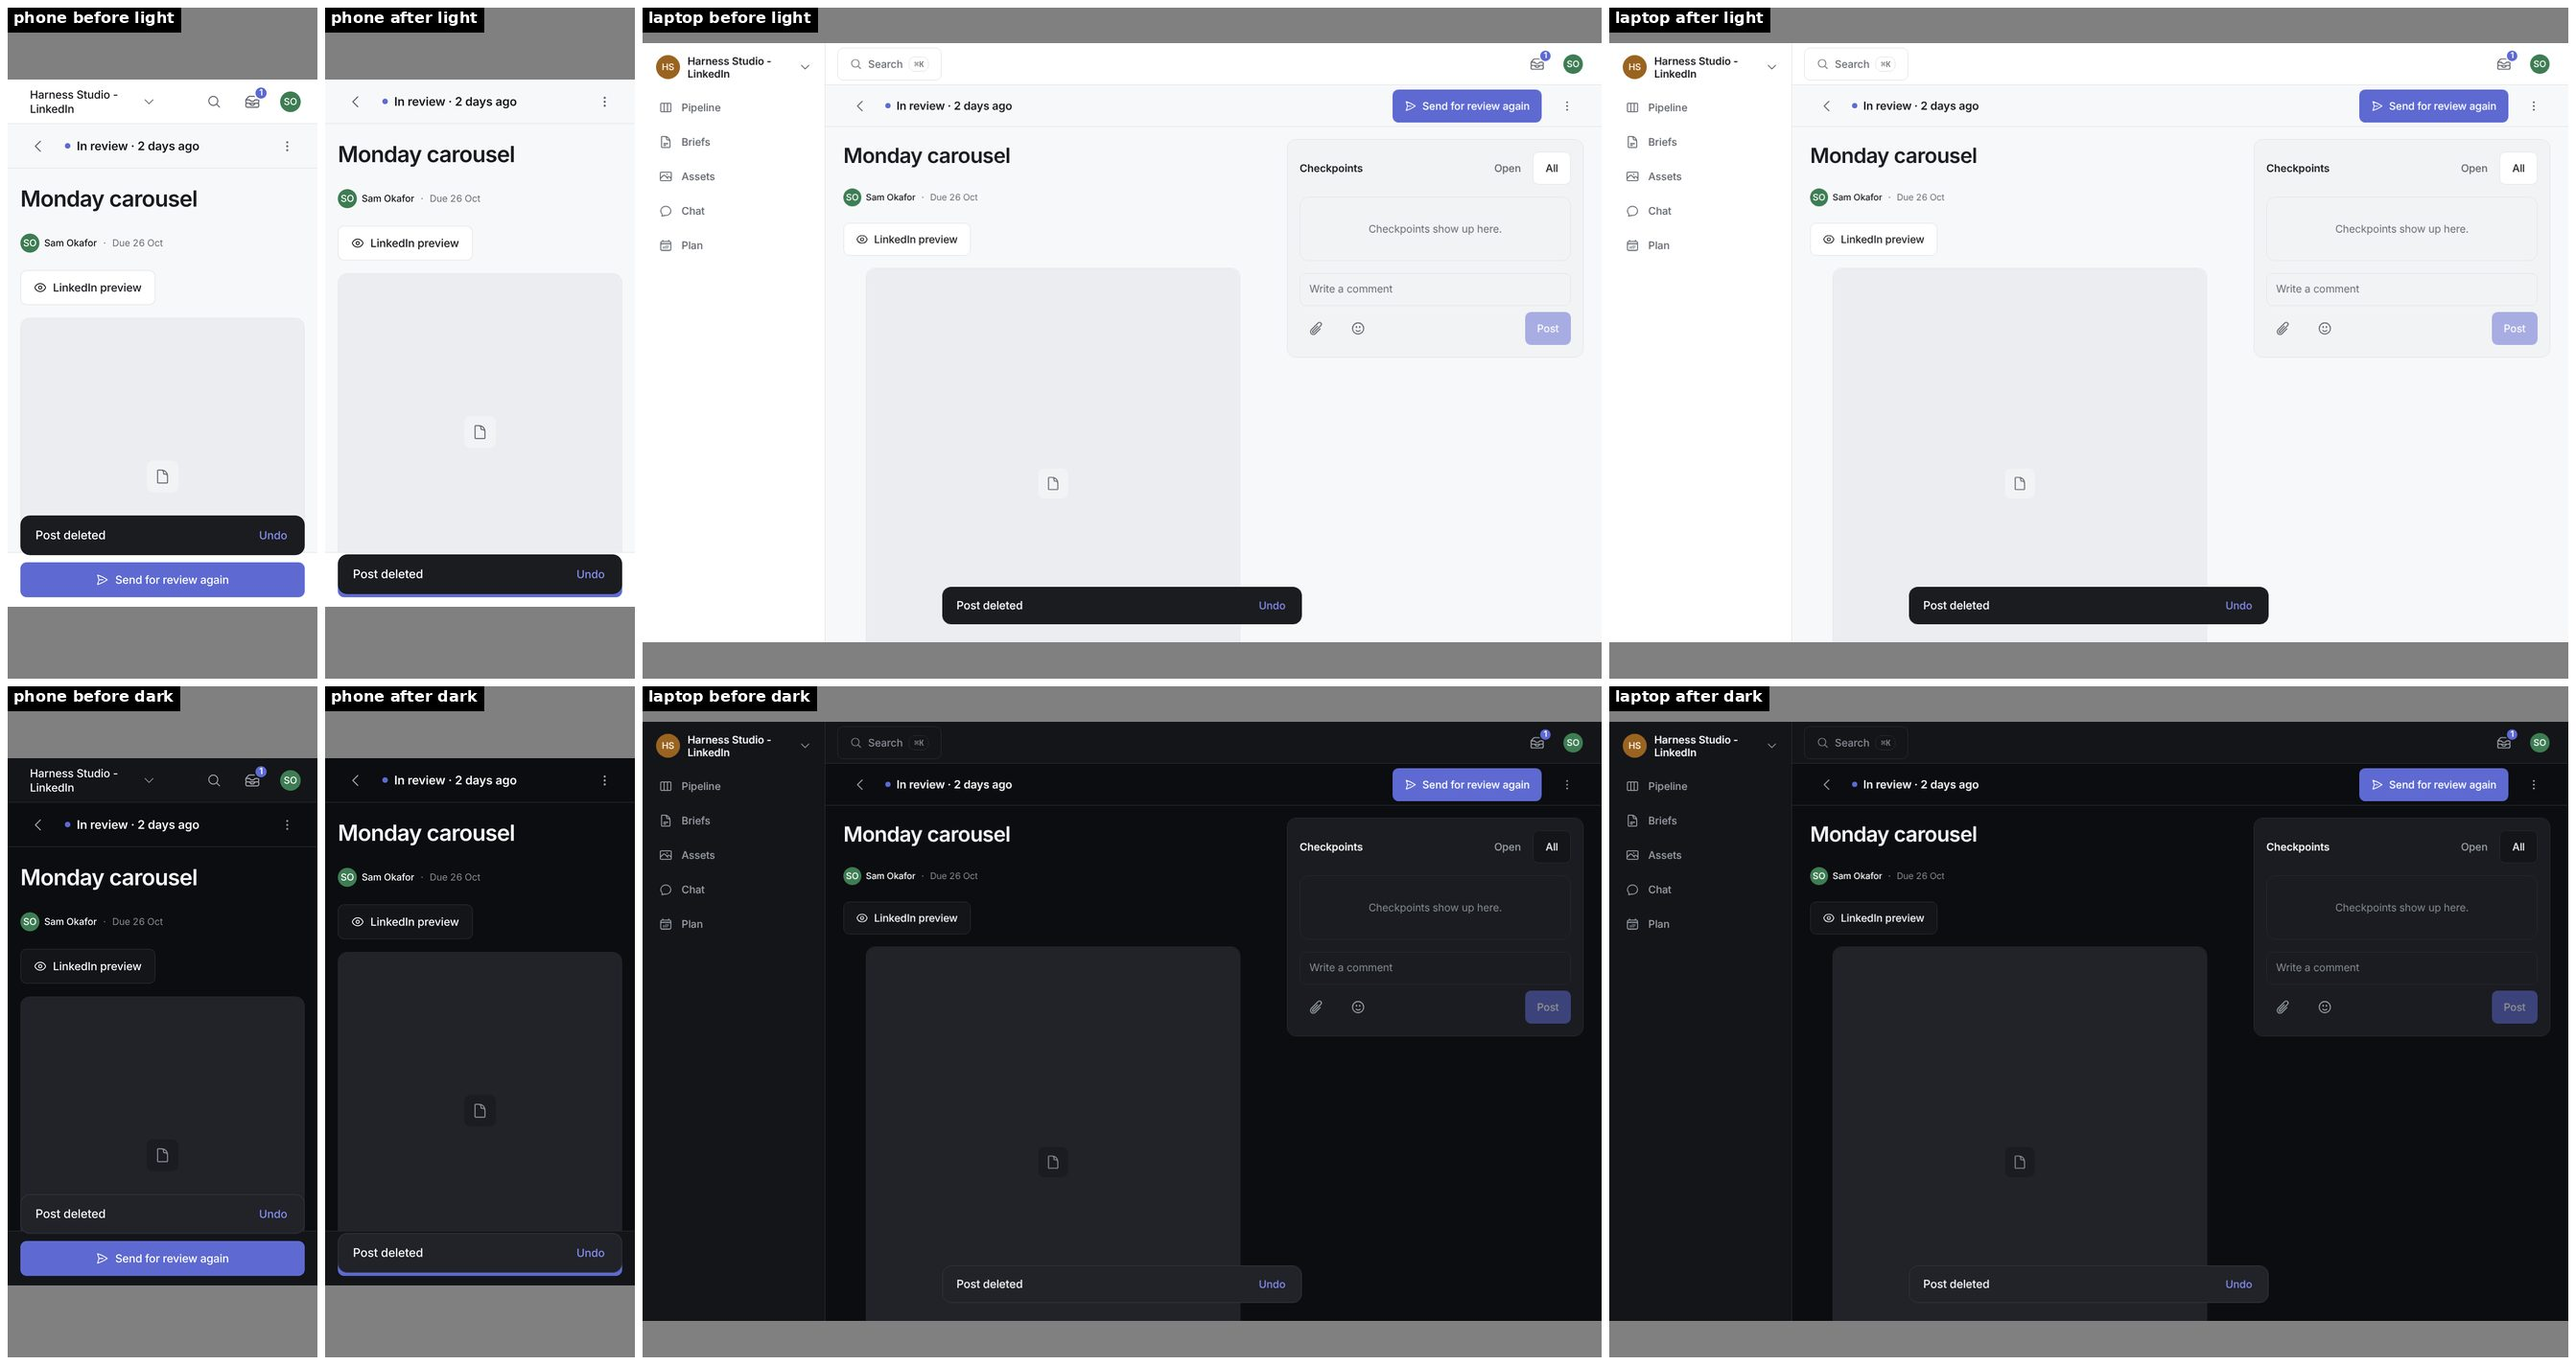
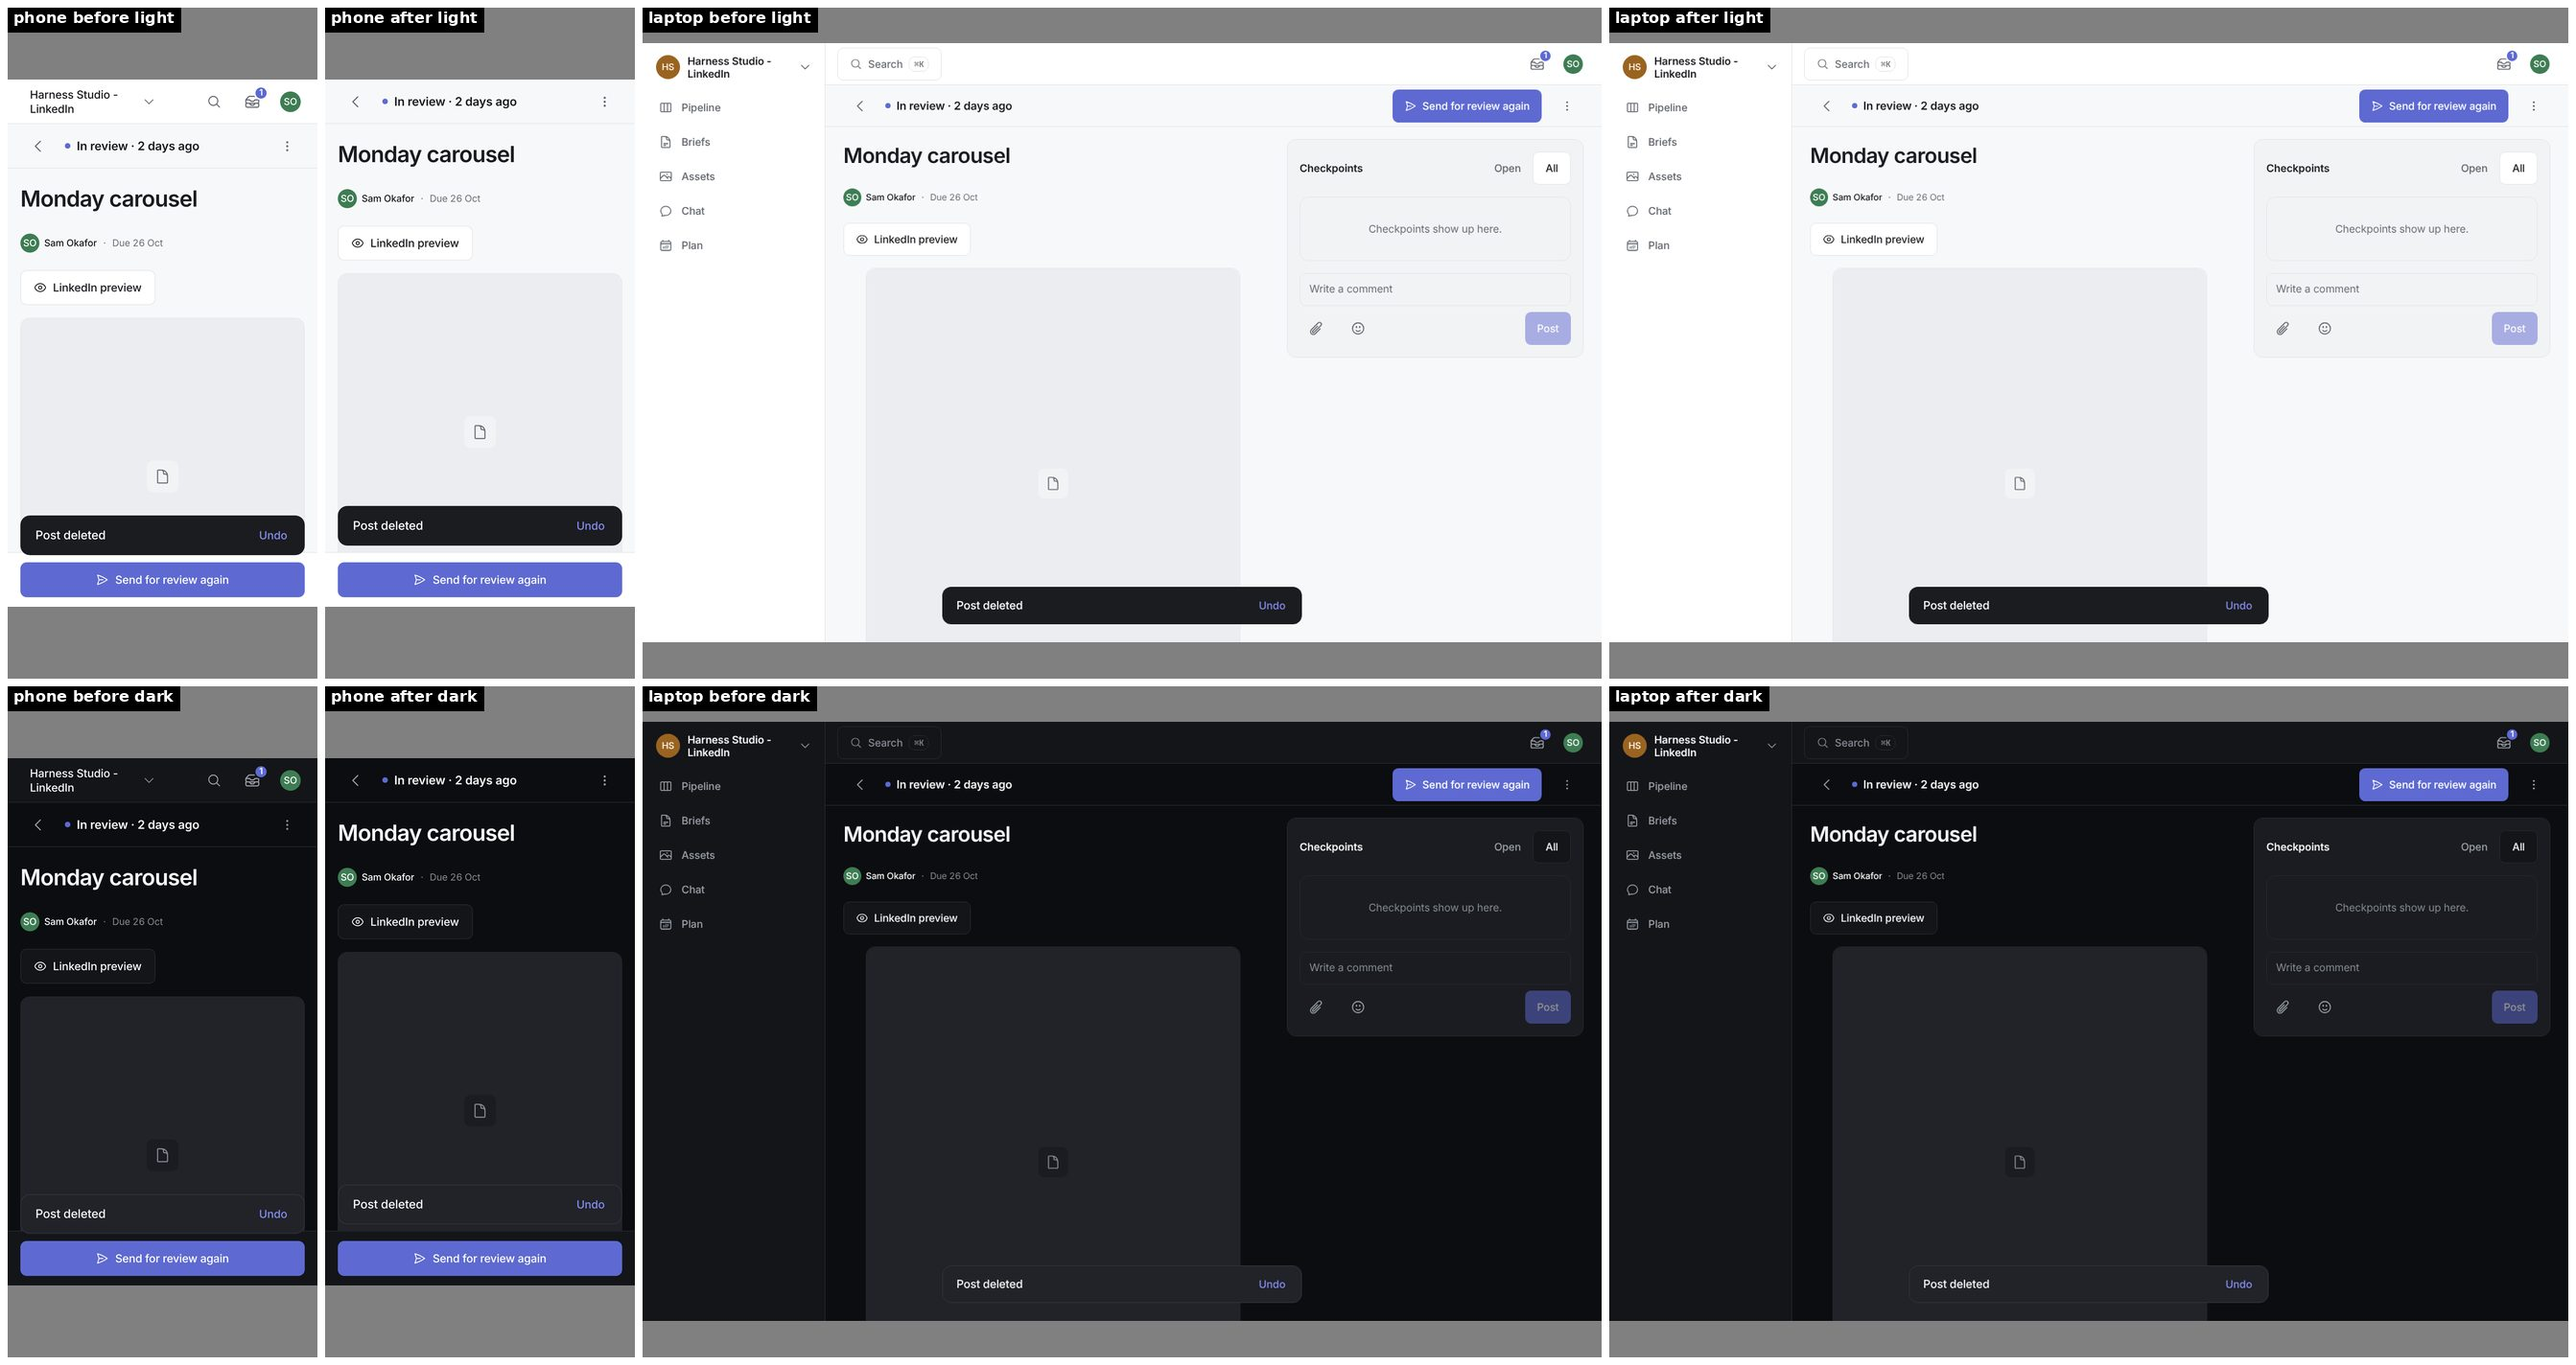
Stage dots on Pipeline chips; Undo strip floats above bottom bars; Mark all read in Activity ⋯; recapture screens
Claude-Session: https://claude.ai/code/session_01HkXRaKvQ6AtJVsedBSVVac

Changed region(s): [[0.1236, 0.8961, 0.2472, 0.9579], [0.1236, 0.3708, 0.2472, 0.4326]]

diff --git a/src/components/pages/NotificationsPage.tsx b/src/components/pages/NotificationsPage.tsx
@@ -6,6 +6,7 @@ import { EmptyState } from '@/components/ui/EmptyState';
 import { Sheet } from '@/components/ui/Sheet';
 import { PageHead } from '@/components/shell/PageHead';
 import { SortMenu, type SortOption } from '@/components/ui/SortMenu';
+import { ActionMenu } from '@/components/ui/ActionMenu';
 import {
   ICON_SIZE,
   IconActivity,
@@ -13,6 +14,7 @@ import {
   IconAt,
   IconBriefs,
   IconCalendarClock,
+  IconCheck,
   IconPlan,
 } from '@/components/ui/icons';
 import { ActivityCard, UpcomingCard } from '@/components/pages/activity/ActivityCard';
@@ -823,17 +825,26 @@ export function NotificationsPage() {
         title={ACTIVITY_TITLE}
         actions={
           <>
-            {chipUnread > 0 ? (
-              <Button variant="ghost" onClick={handleMarkAll}>
-                Mark all read
-              </Button>
-            ) : null}
             <SortMenu<ActivityDirection>
               options={SORT_OPTIONS}
               value={sort}
               onChange={setSort}
               label="Sort activity"
             />
+            {/* Mark all read lives in the ⋯ menu (list-toolbar rule); hidden with nothing unread. */}
+            {chipUnread > 0 ? (
+              <ActionMenu
+                title="Activity"
+                items={[
+                  {
+                    id: 'mark-all-read',
+                    label: 'Mark all read',
+                    icon: IconCheck,
+                    onSelect: () => void handleMarkAll(),
+                  },
+                ]}
+              />
+            ) : null}
           </>
         }
       />

diff --git a/e2e/audit/capture-pr-b.spec.ts b/e2e/audit/capture-pr-b.spec.ts
@@ -185,6 +185,20 @@ const SCREENS: Screen[] = [
   { name: 'chat-post-sheet', seed: creator, url: '/chat', steps: openChatPostSheet },
   { name: 'chat-post-sheet-approver', seed: approver, url: '/chat', steps: openChatPostSheet },
   {
+    // The sheet's lower half: Comment on this post and Talk about this post.
+    name: 'chat-post-sheet-scrolled',
+    seed: creator,
+    url: '/chat',
+    steps: async (page) => {
+      await openChatPostSheet(page);
+      const talk = page.getByText('Talk about this post').last();
+      const comment = page.getByText('Comment on this post').last();
+      const target = (await talk.count()) > 0 ? talk : comment;
+      await target.scrollIntoViewIfNeeded().catch(() => undefined);
+      await page.waitForTimeout(400);
+    },
+  },
+  {
     name: 'brief-detail',
     seed: creator,
     url: `/briefs/${AUDIT_BRIEF_ID}`,
@@ -378,6 +392,23 @@ const SCREENS: Screen[] = [
     seed: creator,
     url: '/deleted',
     steps: async (page) => waitFor(page, [page.getByText('Old logo.png')], 'recently deleted'),
+  },
+  {
+    // Nothing deleted: the zero state.
+    name: 'recently-deleted-empty',
+    seed: { ...creator, noAssets: true },
+    url: '/deleted',
+    steps: async (page) => {
+      await waitFor(
+        page,
+        [
+          page.getByText('Deleted posts and files show up here.'),
+          page.getByRole('heading', { name: 'Recently deleted' }),
+        ],
+        'recently deleted (empty)',
+      );
+      await page.waitForTimeout(2500);
+    },
   },
   {
     name: 'toast-copy-link',

diff --git a/e2e/tests/post-delete-undo.spec.ts b/e2e/tests/post-delete-undo.spec.ts
@@ -45,3 +45,31 @@ test('Post detail: Delete post shows the Undo strip, no dialog; Undo restores th
   await expect(title).toBeVisible();
   expect(network.blocked).toEqual([]);
 });
+
+test('Post detail on phone: the Undo strip sits above the decision bar, never over it', async ({
+  page,
+}) => {
+  await installHarnessNetwork(page);
+  await page.goto(`/posts/${POST}`);
+  await expect(page.getByRole('heading', { name: 'Monday carousel', level: 1 })).toBeVisible({
+    timeout: 15_000,
+  });
+  const bar = page.locator('[data-decision-bar]');
+  await expect(bar).toBeVisible();
+
+  await page.getByRole('button', { name: 'More actions', exact: true }).first().click();
+  const menu = page.getByRole('dialog', { name: 'Post actions', exact: true });
+  await menu.getByRole('menuitem').last().click();
+
+  const strip = undoStrip(page, 'Post deleted');
+  await expect(strip).toBeVisible();
+  // Let the strip finish its slide in before measuring.
+  await page.waitForTimeout(600);
+  const stripBox = await strip.boundingBox();
+  const barBox = await bar.boundingBox();
+  expect(stripBox).not.toBeNull();
+  expect(barBox).not.toBeNull();
+  // No overlap: the strip's bottom edge is at or above the bar's top edge.
+  expect(stripBox!.y + stripBox!.height).toBeLessThanOrEqual(barBox!.y);
+  await strip.getByRole('button', { name: 'Undo', exact: true }).click();
+});

diff --git a/src/components/pages/pipeline/StageChips.tsx b/src/components/pages/pipeline/StageChips.tsx
@@ -2,6 +2,7 @@ import { useEffect, useRef, useState } from 'react';
 import type { ReactElement } from 'react';
 import { Chip } from '@/components/ui/Chip';
 import type { Stage } from '@srtdio/posts';
+import { StageDot } from '@/components/pages/pipeline/stage-meta';
 
 export interface StageChipItem {
   /** The chip's filter key: a Stage, or the UI-only 'all'. */
@@ -34,7 +35,7 @@ export function chipRowMask(fadeStart: boolean, fadeEnd: boolean): string {
 
 /**
  * The Pipeline stage switcher: one horizontally scrollable, non-wrapping row of
- * the shared ui/Chip (the stages plus the UI-only All), the same chip and
+ * the shared ui/Chip (the stages, each with its stage dot, plus the UI-only All), the same chip and
  * selected style as Briefs, Activity and Help. A chip shows its count only when
  * above 0. Runs full-bleed to the right edge with an edge-cut fade applied only
  * when the row overflows. Each chip is a 44px touch target; the active chip is
@@ -80,6 +81,7 @@ export function StageChips({ items, active, onChange }: StageChipsProps): ReactE
           <Chip
             key={item.key}
             label={item.label}
+            {...(item.stage !== undefined ? { dot: <StageDot stage={item.stage} /> } : {})}
             {...(item.count !== undefined ? { count: item.count } : {})}
             selected={isActive}
             size="tap"

diff --git a/src/components/pages/pcs/PostDecisionBar.tsx b/src/components/pages/pcs/PostDecisionBar.tsx
@@ -151,7 +151,8 @@ export function hasDecisionContent(model: DecisionModel | null, error: string | 
 /**
  * The phone bar. 'fixed' (a page): pinned above the safe area, below md only.
  * 'footer' (a sheet): the same row filling the host Sheet's footer, which is
- * already pinned to the bottom and pads for the safe area.
+ * already pinned to the bottom and pads for the safe area. Either way the phone
+ * Undo strip floats above it (the bar, or the Sheet footer, is an undo anchor).
  */
 export function PostDecisionBar(props: {
   model: DecisionModel | null;
@@ -170,6 +171,7 @@ export function PostDecisionBar(props: {
   return (
     <div
       data-decision-bar=""
+      data-undo-anchor=""
       className="fixed inset-x-0 bottom-0 z-40 border-t border-border bg-panel px-4 pt-3 pb-[max(12px,env(safe-area-inset-bottom))] md:hidden"
     >
       {decisionContent(props.model, props.busy, props.error)}

diff --git a/src/components/ui/Chip.tsx b/src/components/ui/Chip.tsx
@@ -1,4 +1,4 @@
-import type { ButtonHTMLAttributes, Ref } from 'react';
+import type { ButtonHTMLAttributes, ReactNode, Ref } from 'react';
 import { cn } from '@/lib/cn';
 
 interface ChipProps extends Omit<
@@ -6,6 +6,8 @@ interface ChipProps extends Omit<
   'className' | 'onClick' | 'children'
 > {
   label: string;
+  /** An optional leading mark before the label (Pipeline's stage dot). */
+  dot?: ReactNode;
   /** A filter's count, shown after the label only when above 0. */
   count?: number;
   selected?: boolean;
@@ -33,6 +35,7 @@ const sizes: Record<NonNullable<ChipProps['size']>, string> = {
 
 export function Chip({
   label,
+  dot,
   count,
   selected = false,
   variant = 'default',
@@ -57,6 +60,7 @@ export function Chip({
         className,
       )}
     >
+      {dot}
       {label}
       {count !== undefined && count > 0 ? (
         <>

diff --git a/src/components/ui/Sheet.tsx b/src/components/ui/Sheet.tsx
@@ -182,8 +182,12 @@ export function Sheet({
           {children}
         </div>
         {footer !== undefined ? (
-          // The footer's bottom padding clears the iPhone home bar.
-          <div className="flex items-center gap-2.5 px-[18px] pt-3 pb-[max(12px,env(safe-area-inset-bottom))] border-t border-border">
+          // The footer's bottom padding clears the iPhone home bar. It is an
+          // undo anchor: the phone Undo strip floats above it, never over it.
+          <div
+            data-undo-anchor=""
+            className="flex items-center gap-2.5 px-[18px] pt-3 pb-[max(12px,env(safe-area-inset-bottom))] border-t border-border"
+          >
             {footer}
           </div>
         ) : null}

diff --git a/src/components/pages/BriefDetailPage.tsx b/src/components/pages/BriefDetailPage.tsx
@@ -895,6 +895,7 @@ export function BriefDetailPage({ briefId: briefIdProp }: { briefId?: string } =
           <div aria-hidden="true" data-brief-action-space="" className="h-[76px]" />
           <div
             data-brief-action-bar=""
+            data-undo-anchor=""
             className="fixed inset-x-0 bottom-0 z-40 border-t border-border bg-panel px-4 pt-3 pb-[max(12px,env(safe-area-inset-bottom))]"
           >
             <Button

diff --git a/e2e/audit/composite-pr-b.py b/e2e/audit/composite-pr-b.py
@@ -32,6 +32,7 @@ SCREENS = [
     "post-detail-approver",
     "chat-post-sheet",
     "chat-post-sheet-approver",
+    "chat-post-sheet-scrolled",
     "brief-detail",
     "post-more-menu",
     "brief-more-menu",
@@ -45,6 +46,7 @@ SCREENS = [
     "approve-confirm-approver",
     "on-behalf-confirm",
     "recently-deleted",
+    "recently-deleted-empty",
     "toast-copy-link",
 ]
 
